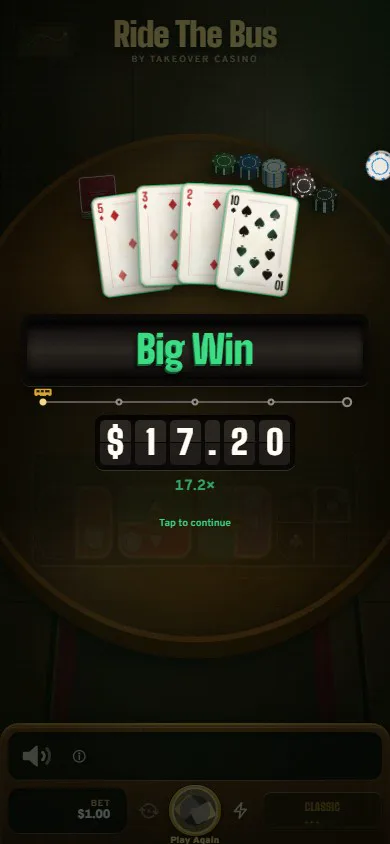
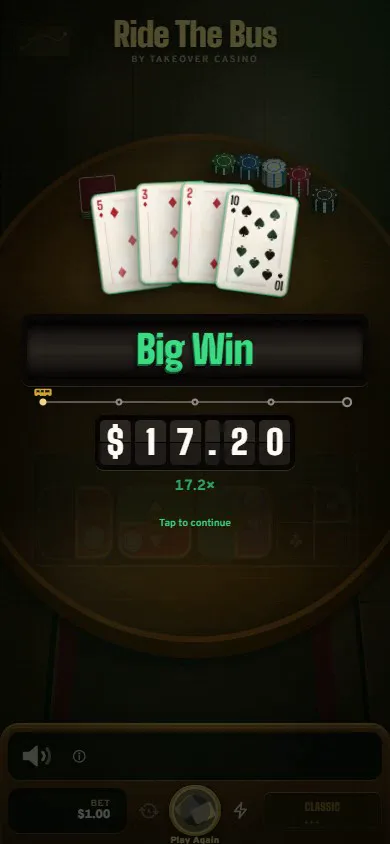
Ride The Bus page: a clean phone poster, and bar labels wait for their bars (TC6IDM/Ride-The-Bus#41)

diff --git a/ride-the-bus/index.html b/ride-the-bus/index.html
@@ -147,6 +147,8 @@ input[type=range]{width:100%;height:44px;accent-color:var(--hot);margin:0;cursor
 .js .fams.in .bar i{transform:scaleX(var(--w))}
 .fams .bar span{position:absolute;right:10px;top:50%;transform:translateY(-50%);font:900 clamp(20px,1vw + 12px,28px)/1 var(--display);color:var(--lab,var(--ink))}
 .fams li[style*="--lab"] .bar span{right:calc((1 - var(--w)) * 100% + 10px)}
+.js .fams li[style*="--lab"] .bar span{opacity:0;transition:opacity .25s linear}
+.js .fams.in li[style*="--lab"] .bar span{opacity:1;transition-delay:1s}
 @media (max-width:640px){.fams li{grid-template-columns:1fr}}
 .ls{margin:clamp(40px,5vw,64px) 0 0}
 .ls video{width:100%;aspect-ratio:16/9;object-fit:cover;background:#000}
@@ -193,6 +195,7 @@ footer p{margin:6px 0 0;color:var(--field-2);font-size:16px}
   .js [data-rise],.js .sign>span,.js .fams .bar i{transition:none}
   .js [data-rise],.js .sign>span{opacity:1;transform:none}
   .js .fams .bar i{transform:scaleX(var(--w))}
+  .js .fams li[style*="--lab"] .bar span{opacity:1;transition:none}
 }
 </style>
 </head>
